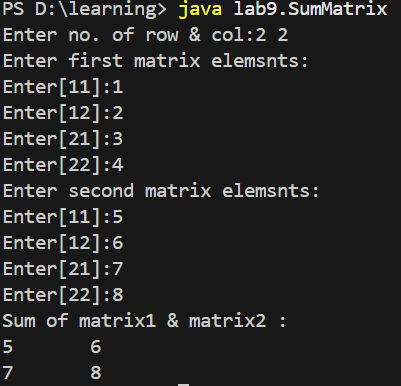
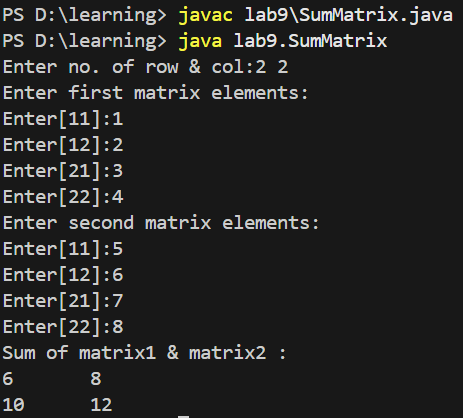
img lab9

Changed region(s): [[0.0, 0.0, 0.9875, 0.9948], [0.3591, 0.9948, 0.4788, 1.0]]

diff --git a/lab9/SumMatrix.java b/lab9/SumMatrix.java
@@ -11,14 +11,14 @@ public class SumMatrix {
         int[][] matrix2 = new int [row] [col];
         int[][] sum = new int [row] [col];
 
-        System.out.println("Enter first matrix elemsnts:");
+        System.out.println("Enter first matrix elements:");
         for(int i=0; i<row; i++){
             for(int j=0; j<col; j++){
             System.out.print("Enter["+(i+1)+(j+1)+"]:");
-            matrix2[i][j] = input.nextInt();
+            matrix1[i][j] = input.nextInt();
             }
         }
-        System.out.println("Enter second matrix elemsnts:");
+        System.out.println("Enter second matrix elements:");
         for(int i=0; i<row; i++){
             for(int j=0; j<col; j++){
             System.out.print("Enter["+(i+1)+(j+1)+"]:");
